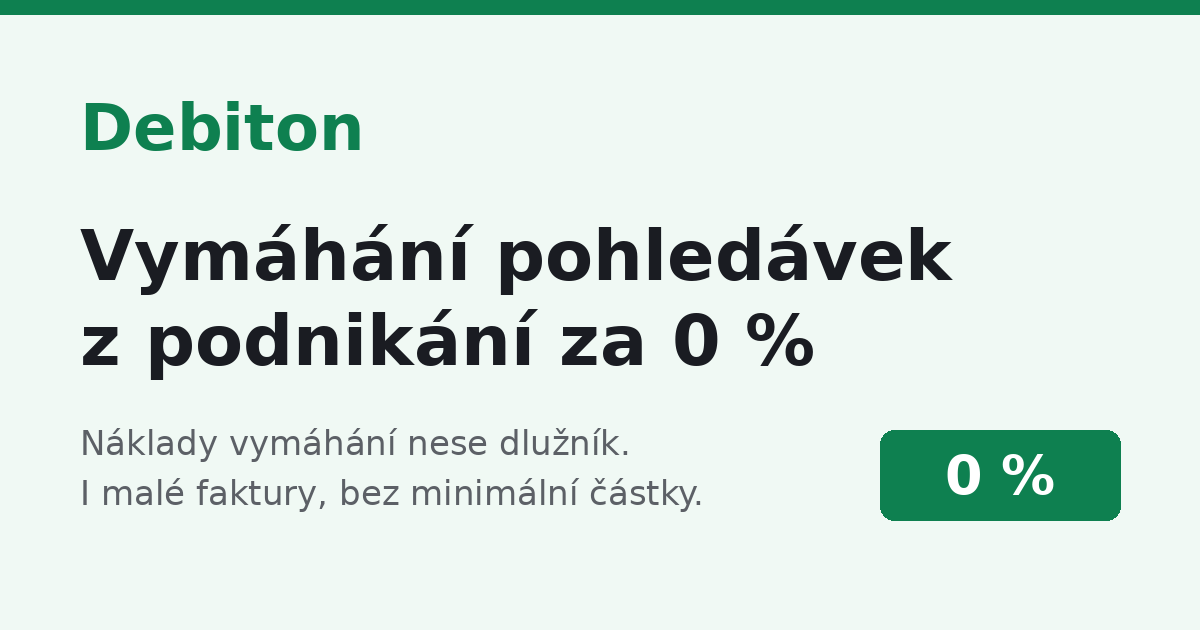
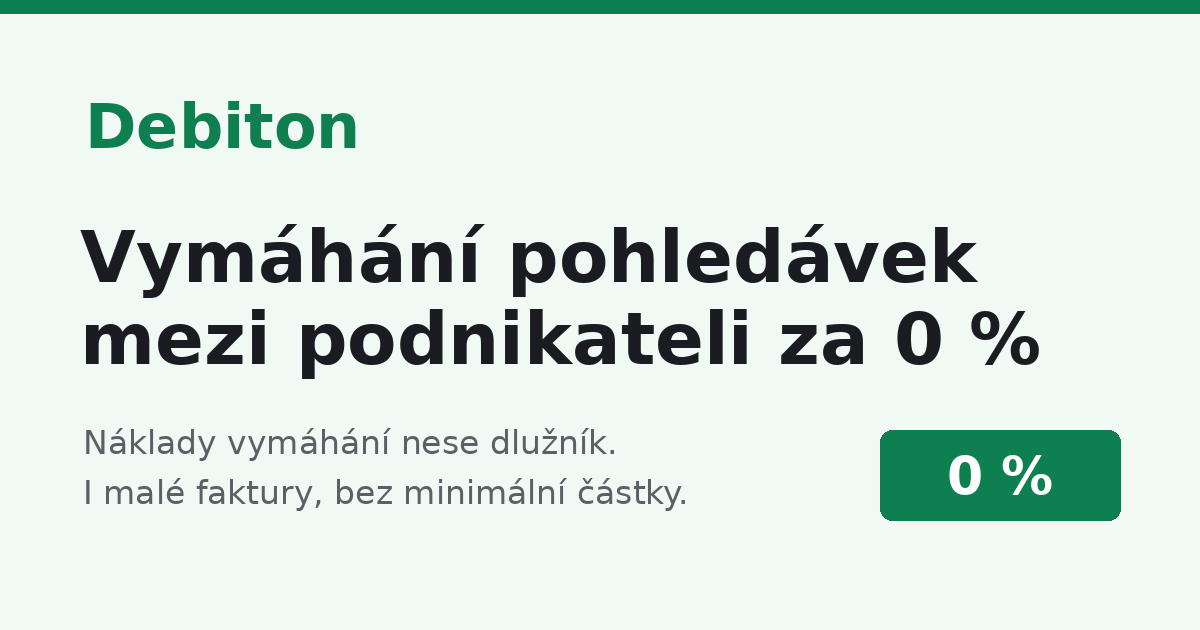
Say "mezi podnikateli" instead of "z podnikání"; add FAQ on scope
The 0 % offer covers unpaid invoices between businesses in the Czech
Republic, so the copy now says "pohledávky mezi podnikateli" everywhere
(title, meta, hero, benefits, pricing, FAQ, footer, og-image). New first
FAQ item explains that consumer and foreign debtors are handled for an
individual price agreed in advance.

Claude-Session: https://claude.ai/code/session_01Jv7t8Uby17rnFJaNvgPb1F

diff --git a/content/cs/_index.md b/content/cs/_index.md
@@ -3,13 +3,13 @@
 # theme can render it. Strings may contain inline HTML (&nbsp;, <strong>).
 # Phone numbers and e-mail come from hugo.yaml → params.contact.
 # Translations: copy this file to content/<lang>/_index.md and translate.
-title: Debiton – vymáhání pohledávek z podnikání za 0 %
+title: Debiton – vymáhání pohledávek mezi podnikateli za 0 %
 description: >-
-  Akce pro prvních 50 firem: pohledávky z podnikání vymáháme za 0 % z vymožené
+  Akce pro prvních 50 firem: pohledávky mezi podnikateli vymáháme za 0 % z vymožené
   částky, i malé faktury bez minimální částky. Upomínky posílá advokátní
   kancelář, náklady nese dlužník.
 og:
-  title: Debiton – vymáhání pohledávek z podnikání za 0 %
+  title: Debiton – vymáhání pohledávek mezi podnikateli za 0 %
   description: >-
     Akce pro prvních 50 firem. Náklady vymáhání nese dlužník, Vám pošleme celou
     dlužnou částku. I malé faktury, bez minimální částky.
@@ -27,9 +27,9 @@ mobileCta: Nahrát dlužnou fakturu
 
 hero:
   badge: Akce pro prvních 50&nbsp;firem
-  title: Vymáhání pohledávek z&nbsp;podnikání za&nbsp;0&nbsp;%
+  title: Vymáhání pohledávek mezi podnikateli za&nbsp;0&nbsp;%
   text: >-
-    Dluží Vám odběratel za fakturu? Pohledávky z&nbsp;podnikání teď vymáháme za
+    Dluží Vám odběratel za fakturu? Pohledávky mezi podnikateli teď vymáháme za
     0&nbsp;% z&nbsp;vymožené částky. Veškeré náklady vymáhání nese dlužník, Vám
     pošleme celou dlužnou částku.
   ctas:
@@ -57,7 +57,7 @@ hero:
       Příklad. 1&nbsp;200&nbsp;Kč a&nbsp;úroky z&nbsp;prodlení platí dlužník.
       Tyto částky si ponecháváme jako naši odměnu.
   facts:
-    - { value: 0&nbsp;%, text: z&nbsp;vymožené částky u&nbsp;pohledávek z&nbsp;podnikání }
+    - { value: 0&nbsp;%, text: z&nbsp;vymožené částky u&nbsp;pohledávek mezi podnikateli }
     - { value: 1&nbsp;200&nbsp;Kč, text: za každou fakturu platí dlužník podle nařízení vlády č.&nbsp;351/2013&nbsp;Sb. }
     - { value: 7&nbsp;dní, text: má dlužník na zaplacení po upomínce i&nbsp;po předžalobní výzvě }
     - { value: 7&nbsp;900&nbsp;Kč, text: "plus DPH obvykle za platební rozkaz, jen s&nbsp;Vaším souhlasem" }
@@ -116,7 +116,7 @@ how:
   text: U&nbsp;pohledávek mezi podnikateli nese náklady vymáhání ze zákona dlužník. Proto Vás vymáhání nic nestojí.
   items:
     - icon: percent
-      title: Pohledávky z&nbsp;podnikání za 0&nbsp;%
+      title: Pohledávky mezi podnikateli za 0&nbsp;%
       text: U&nbsp;pohledávek mezi podnikateli je naše odměna v&nbsp;rámci akce <strong>0&nbsp;% z&nbsp;vymožené částky</strong>. Veškeré náklady vymáhání nese dlužník.
     - icon: search
       title: Úvodní posouzení zdarma
@@ -137,7 +137,7 @@ steps:
     - title: Zdarma posoudíme případ
       text: Obratem Vám navrhneme nejlepší řešení a&nbsp;pošleme plnou moc pro advokátní kancelář. Podepsat ji můžete i&nbsp;elektronicky.
     - title: Pohledávku vymůžeme
-      text: U&nbsp;pohledávek z&nbsp;podnikání platíte 0&nbsp;% z&nbsp;vymožené částky, náklady vymáhání nese dlužník. U&nbsp;ostatních pohledávek je naše odměna typicky 10&nbsp;% z&nbsp;vymožené částky.
+      text: U&nbsp;pohledávek mezi podnikateli platíte 0&nbsp;% z&nbsp;vymožené částky, náklady vymáhání nese dlužník. U&nbsp;ostatních pohledávek je naše odměna typicky 10&nbsp;% z&nbsp;vymožené částky.
 
 timeline:
   id: postup
@@ -194,9 +194,9 @@ letter:
 pricing:
   id: cena
   title: Kolik zaplatíte
-  text: U&nbsp;pohledávek z&nbsp;podnikání nic. Naši odměnu tvoří náklady spojené s&nbsp;uplatněním pohledávky 1&nbsp;200&nbsp;Kč za fakturu a&nbsp;úroky z&nbsp;prodlení, a&nbsp;ty platí dlužník.
+  text: U&nbsp;pohledávek mezi podnikateli nic. Naši odměnu tvoří náklady spojené s&nbsp;uplatněním pohledávky 1&nbsp;200&nbsp;Kč za fakturu a&nbsp;úroky z&nbsp;prodlení, a&nbsp;ty platí dlužník.
   card:
-    label: Vymáhání pohledávky z&nbsp;podnikání
+    label: Vymáhání pohledávky mezi podnikateli
     price: 0&nbsp;Kč
     note: a 0&nbsp;% z&nbsp;vymožené částky v&nbsp;rámci akce pro prvních 50&nbsp;firem
     ticks:
@@ -280,7 +280,9 @@ faq:
   helpNoPhone: Nenašli jste odpověď? Napište nám.
   # Answers are Markdown.
   items:
-    - q: Jak je možné, že u&nbsp;pohledávek z&nbsp;podnikání nic neplatíte?
+    - q: Pro jaké pohledávky je služba určena?
+      a: Pro neuhrazené faktury mezi podnikateli (firmami i&nbsp;živnostníky) v&nbsp;České republice. Pohledávky za spotřebiteli a&nbsp;dlužníky v&nbsp;zahraničí vymáháme za individuální cenu, kterou znáte předem.
+    - q: Jak je možné, že u&nbsp;pohledávek mezi podnikateli nic neplatíte?
       a: Naši odměnu nese dlužník. Účtujeme mu náklady spojené s&nbsp;uplatněním pohledávky ve výši 1&nbsp;200&nbsp;Kč za každou fakturu a&nbsp;úroky z&nbsp;prodlení. Tyto částky si ponecháváme jako svou odměnu, Vám zašleme celou vymoženou dlužnou částku.
     - q: Co přesně dlužníkovi účtujete?
       a: |
@@ -351,7 +353,7 @@ contact:
     message: Napište nám prosím, s čím Vám můžeme pomoci.
 
 footer:
-  tagline: Vymáhání pohledávek z&nbsp;podnikání za 0&nbsp;%. Náklady vymáhání nese dlužník.
+  tagline: Vymáhání pohledávek mezi podnikateli za 0&nbsp;%. Náklady vymáhání nese dlužník.
   serviceTitle: Služba
   service:
     - { label: Jak to funguje, href: "#jak-to-funguje" }
